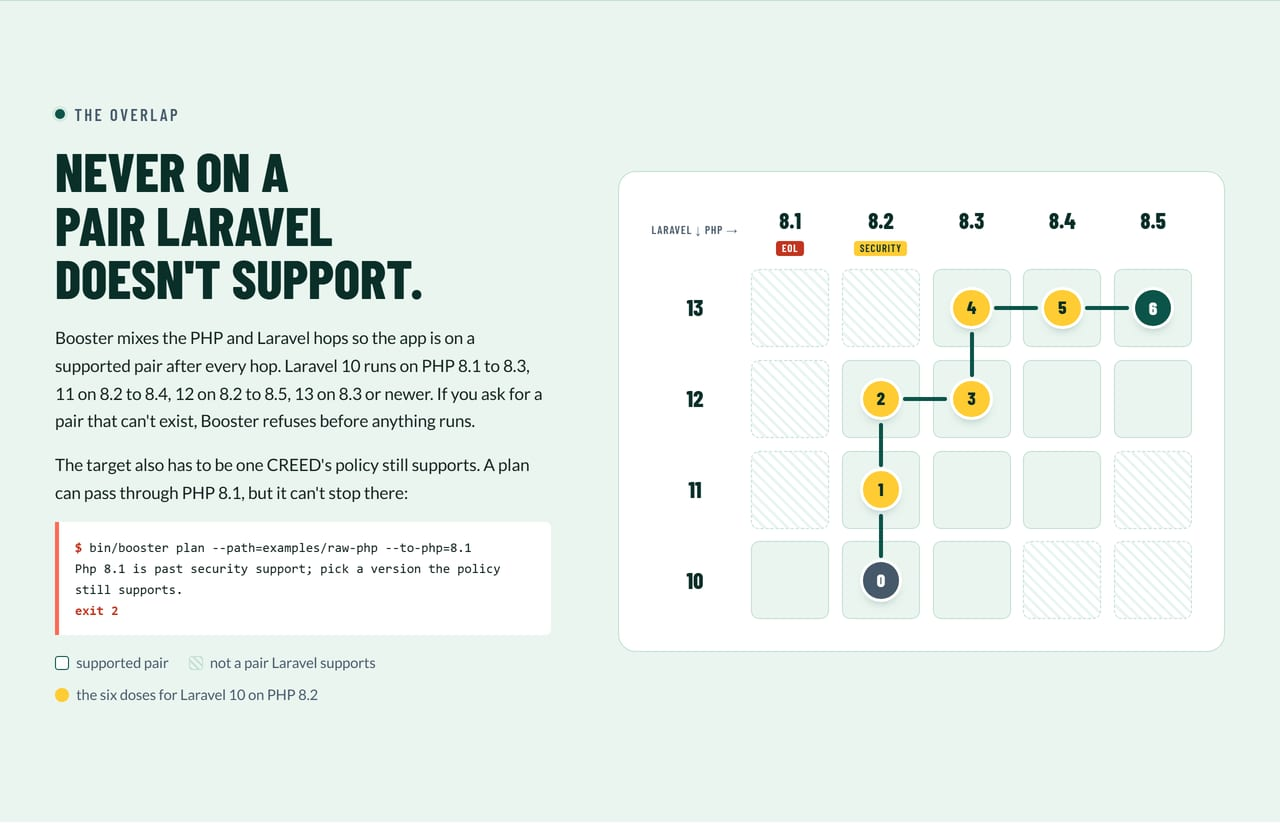
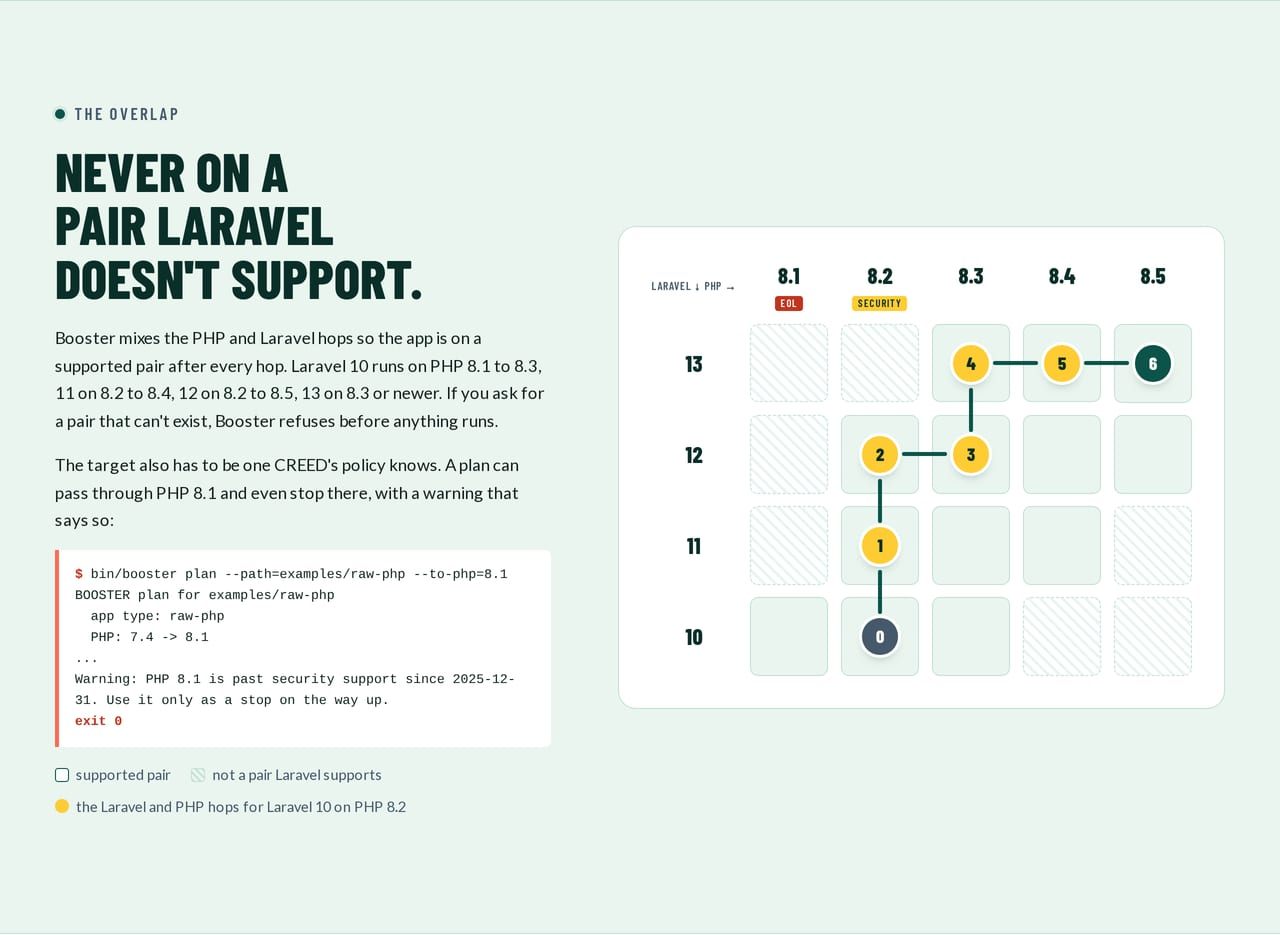
Docs rebuilt for the README art refresh

diff --git a/site/docs/changelog.html b/site/docs/changelog.html
@@ -56,6 +56,7 @@
 </ul>
 <h3 id="fixed">Fixed<a class="docs-heading-link" aria-label="Link to this section" href="#fixed">#</a></h3>
 <ul>
+<li>Fixed: the README art build hides the sticky masthead before the gallery cuts, so <code>card.jpg</code> shows the whole record card.</li>
 <li>The README art kit rebuilds <code>record.svg</code> again: it accepts package hops such as <code>phpunit-10-to-11</code> on the record card and still fails on an id Booster does not plan.</li>
 <li>The audit allows one abandoned package, <code>symplify/rule-doc-generator-contracts</code>, which <code>driftingly/rector-laravel</code> 2.7.3 still requires: composer.json ignores it and <code>policy-overrides.json</code> backs the ignore with a reason and a 2027-02-07 expiry, so PROCTOR flags it again if it outlives the approval.</li>
 <li>The pipeline's PROCTOR jobs no longer pass <code>--policy</code>, which PROCTOR 0.7 refuses in CI; PROCTOR checks against the CREED policy it bundles.</li>

diff --git a/site/docs/changelog.md b/site/docs/changelog.md
@@ -23,6 +23,7 @@ All notable changes to Booster are recorded here. The format follows Keep a Chan
 
 ### Fixed[#](https://booster.apps.wayne.edu/docs/changelog.html#fixed)
 
+- Fixed: the README art build hides the sticky masthead before the gallery cuts, so `card.jpg` shows the whole record card.
 - The README art kit rebuilds `record.svg` again: it accepts package hops such as `phpunit-10-to-11` on the record card and still fails on an id Booster does not plan.
 - The audit allows one abandoned package, `symplify/rule-doc-generator-contracts`, which `driftingly/rector-laravel` 2.7.3 still requires: composer.json ignores it and `policy-overrides.json` backs the ignore with a reason and a 2027-02-07 expiry, so PROCTOR flags it again if it outlives the approval.
 - The pipeline's PROCTOR jobs no longer pass `--policy`, which PROCTOR 0.7 refuses in CI; PROCTOR checks against the CREED policy it bundles.

diff --git a/docs/changelog.md b/docs/changelog.md
@@ -22,6 +22,7 @@ All notable changes to Booster are recorded here. The format follows Keep a Chan
 
 ### Fixed
 
+- Fixed: the README art build hides the sticky masthead before the gallery cuts, so `card.jpg` shows the whole record card.
 - The README art kit rebuilds `record.svg` again: it accepts package hops such as `phpunit-10-to-11` on the record card and still fails on an id Booster does not plan.
 - The audit allows one abandoned package, `symplify/rule-doc-generator-contracts`, which `driftingly/rector-laravel` 2.7.3 still requires: composer.json ignores it and `policy-overrides.json` backs the ignore with a reason and a 2027-02-07 expiry, so PROCTOR flags it again if it outlives the approval.
 - The pipeline's PROCTOR jobs no longer pass `--policy`, which PROCTOR 0.7 refuses in CI; PROCTOR checks against the CREED policy it bundles.
